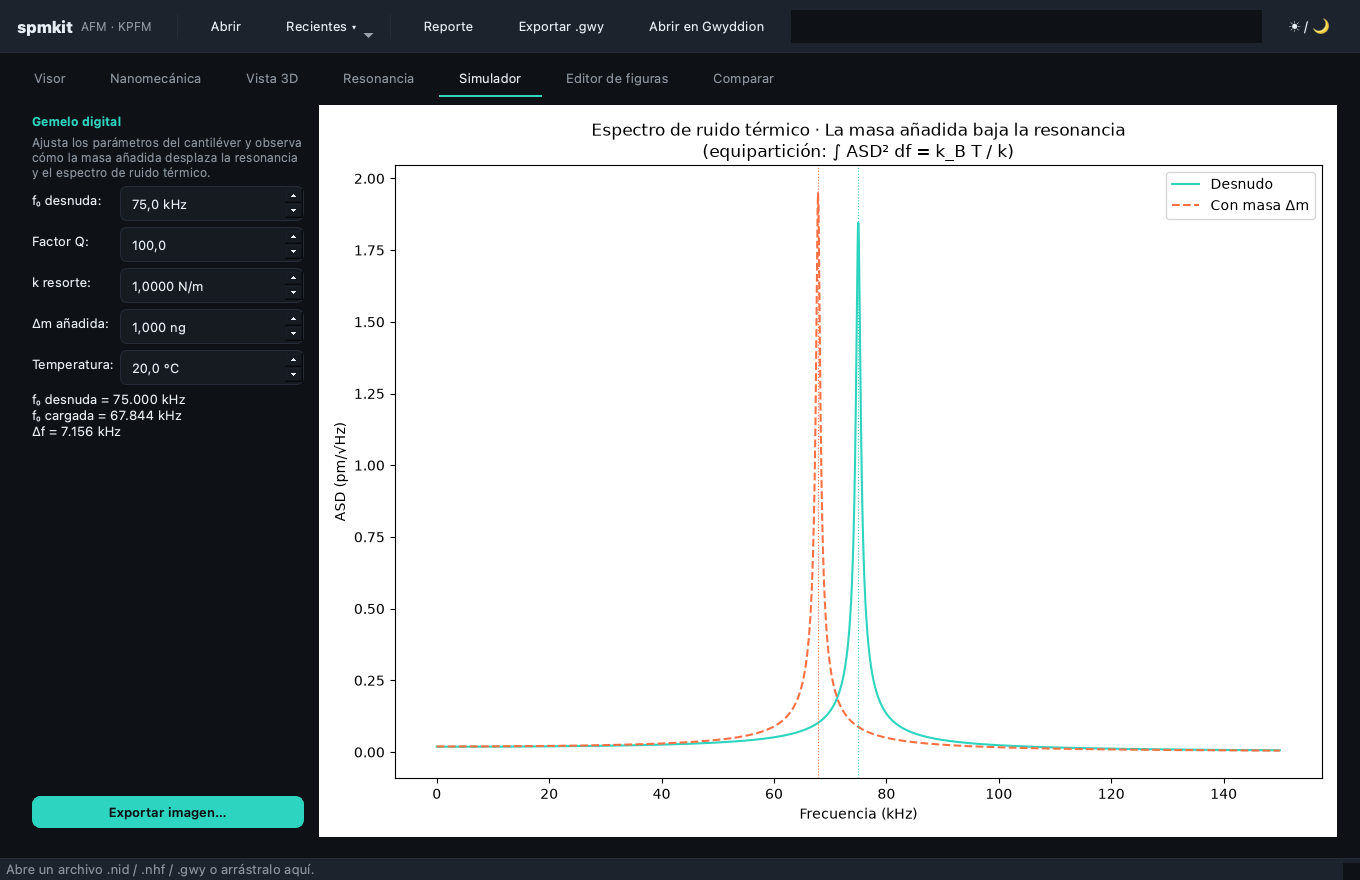
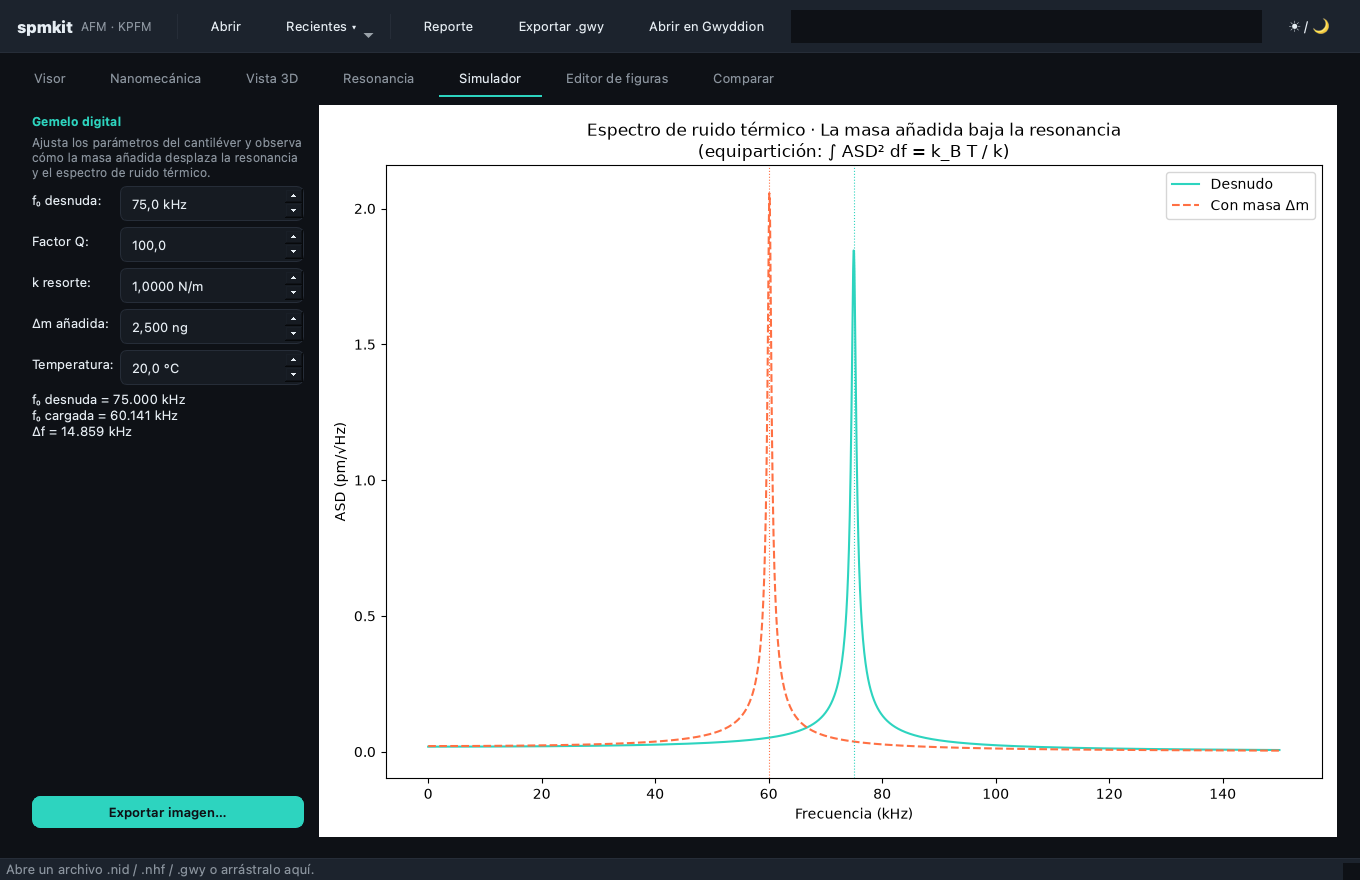
fix: simulador en negro (Retina) — render diferido al showEvent + draw() síncrono + fondo blanco
El gemelo digital se dibujaba en __init__ mientras estaba oculto y con draw_idle
diferido, dejando el lienzo negro en macOS Retina. Ahora renderiza en el primer
showEvent (tamaño real), con draw() síncrono y facecolor blanco explícito. Captura regenerada.

diff --git a/src/spmkit/gui/simulator_tab.py b/src/spmkit/gui/simulator_tab.py
@@ -10,7 +10,7 @@ El core está en ``spmkit.core.analysis.simulation``.
 
 from __future__ import annotations
 
-from PyQt6 import QtWidgets
+from PyQt6 import QtGui, QtWidgets
 
 from spmkit.core.analysis import simulation
 
@@ -24,8 +24,15 @@ class SimulatorTab(QtWidgets.QWidget):
 
     def __init__(self) -> None:
         super().__init__()
+        self._rendered = False
         self._build()
-        self._recompute()
+
+    def showEvent(self, event: QtGui.QShowEvent) -> None:  # noqa: N802
+        """Renderiza al hacerse visible por primera vez (lienzo ya con tamaño real)."""
+        super().showEvent(event)
+        if not self._rendered:
+            self._rendered = True
+            self._recompute()
 
     # ---------------------------------------------------------------- build
 
@@ -113,7 +120,9 @@ class SimulatorTab(QtWidgets.QWidget):
         root.addWidget(side)
 
         # ---------- canvas matplotlib ----------
-        self._figure = Figure(figsize=(7, 5))
+        # Fondo blanco explícito: evita que el lienzo se vea negro si el primer
+        # pintado se difiere (bug de macOS Retina con FigureCanvasQTAgg).
+        self._figure = Figure(figsize=(7, 5), facecolor="white")
         self.canvas = FigureCanvasQTAgg(self._figure)
         root.addWidget(self.canvas, stretch=1)
 
@@ -166,7 +175,9 @@ class SimulatorTab(QtWidgets.QWidget):
         asd_loaded_pm = result.asd_loaded * 1e12
 
         self._figure.clear()
+        self._figure.set_facecolor("white")
         ax = self._figure.add_subplot(111)
+        ax.set_facecolor("white")
 
         ax.plot(freq_khz, asd_bare_pm, color="#2dd4bf", lw=1.5, label="Desnudo")
         ax.plot(freq_khz, asd_loaded_pm, color="#ff7043", lw=1.5, ls="--", label="Con masa Δm")
@@ -183,7 +194,7 @@ class SimulatorTab(QtWidgets.QWidget):
         )
         ax.legend(loc="upper right")
         self._figure.tight_layout()
-        self.canvas.draw_idle()
+        self.canvas.draw()  # síncrono: fuerza el pintado inmediato (evita lienzo negro)
 
     # ---------------------------------------------------------------- exportar
 